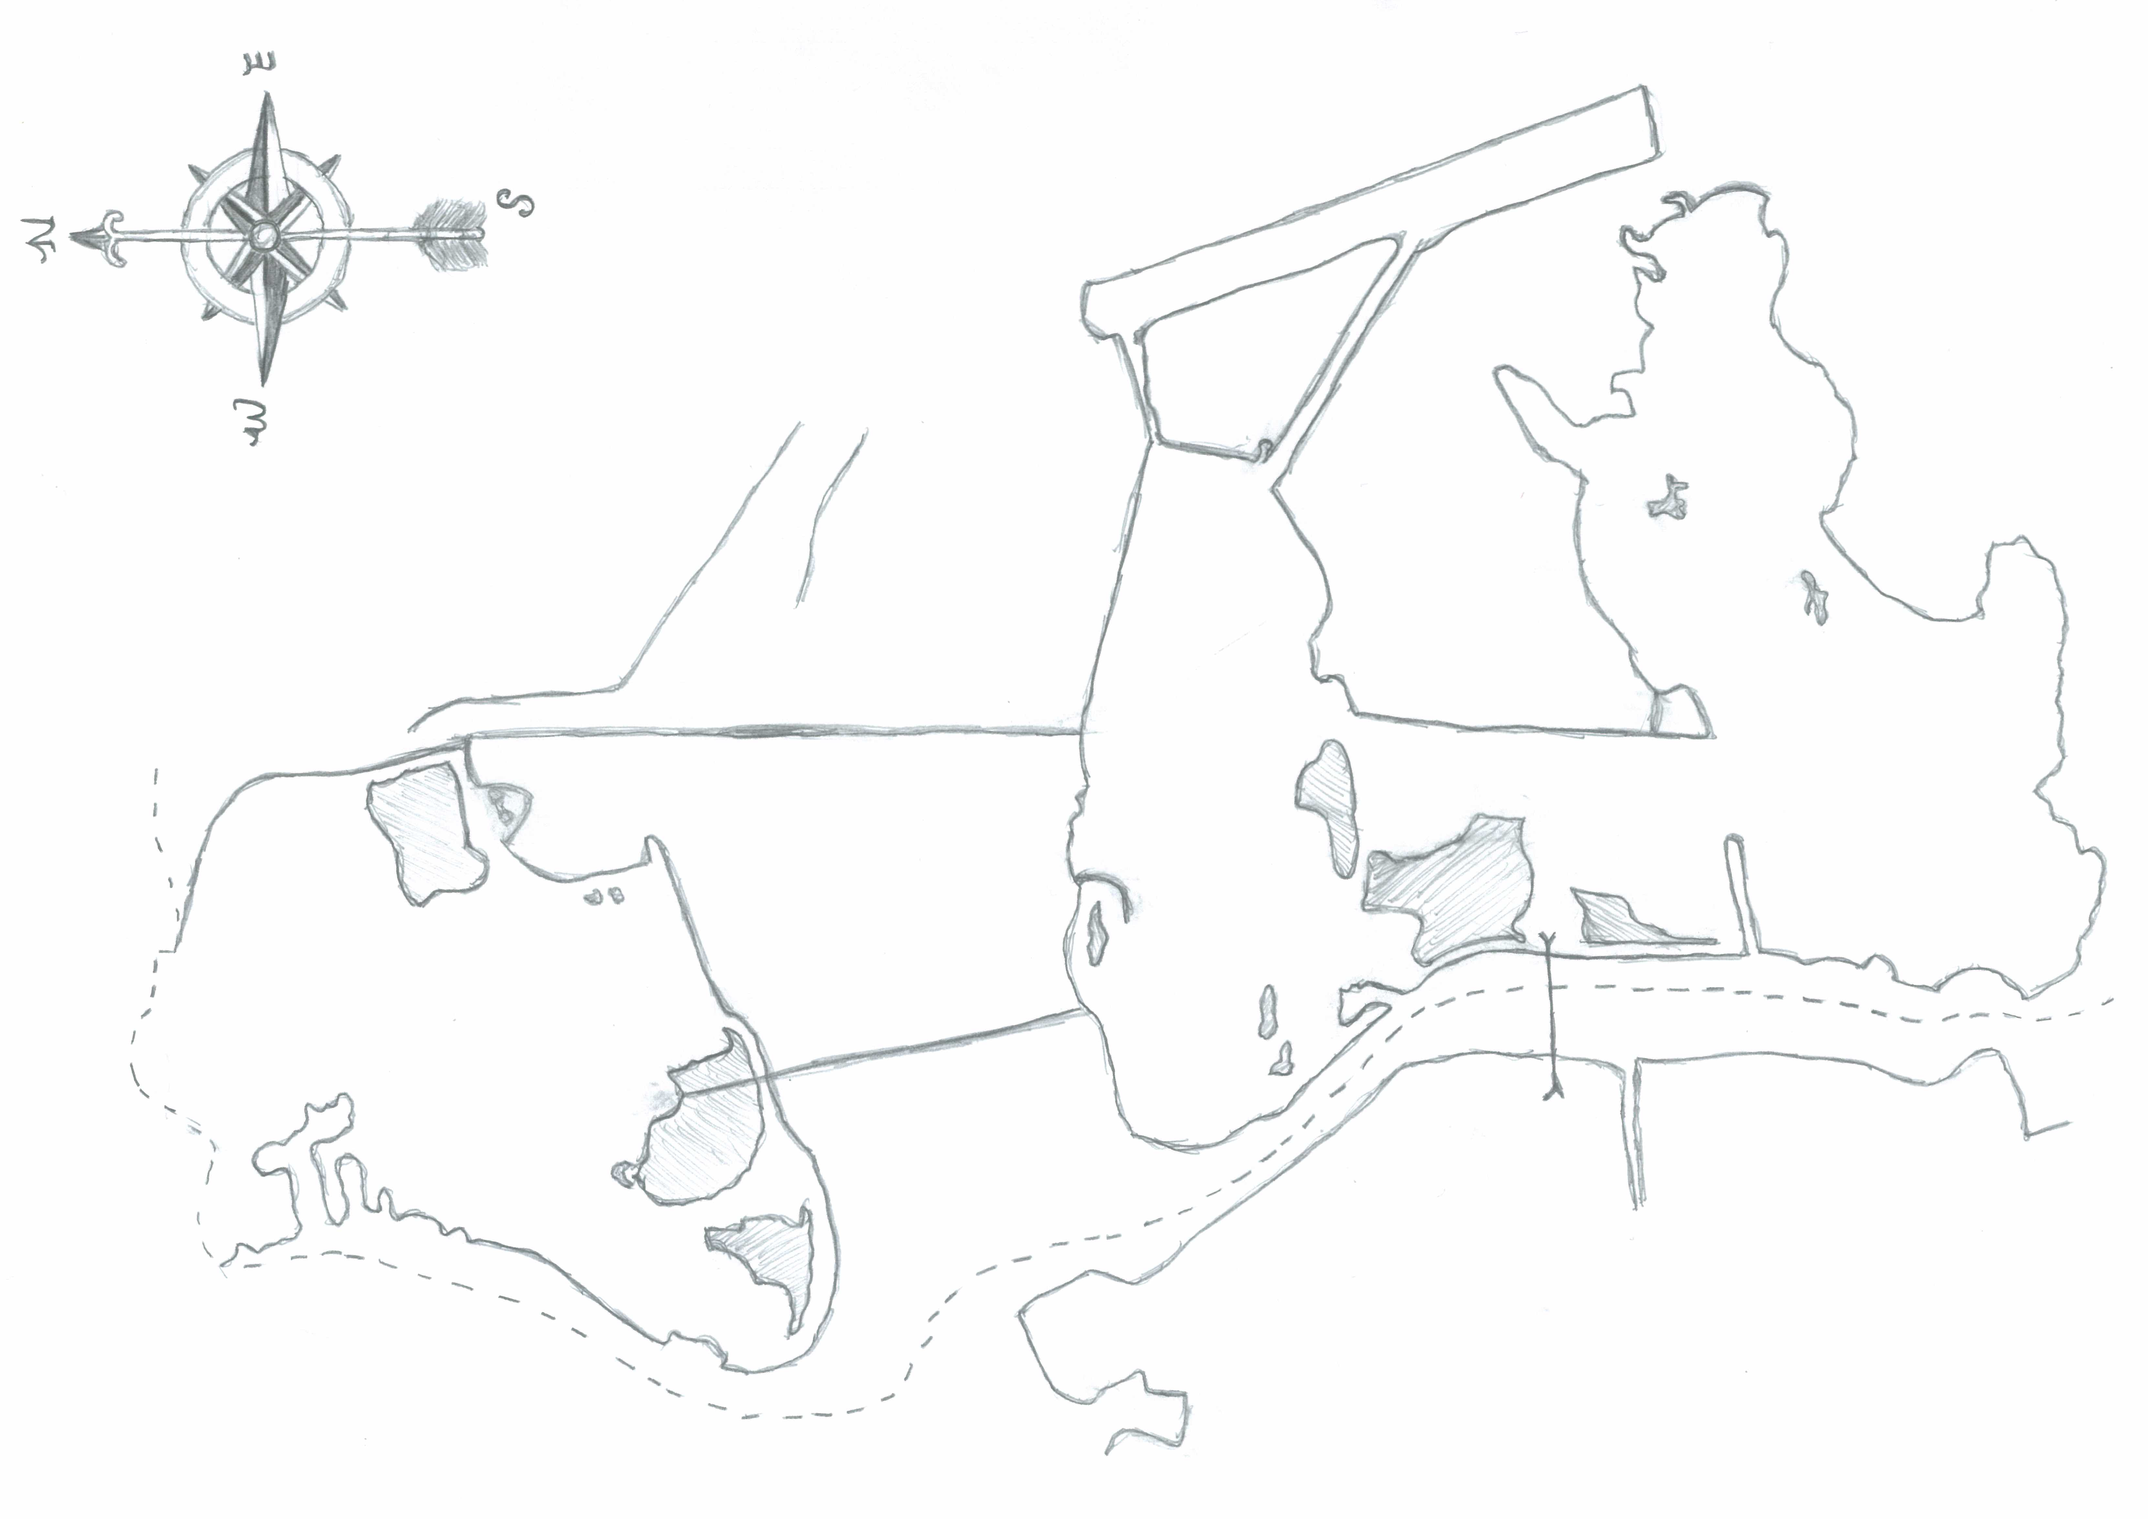
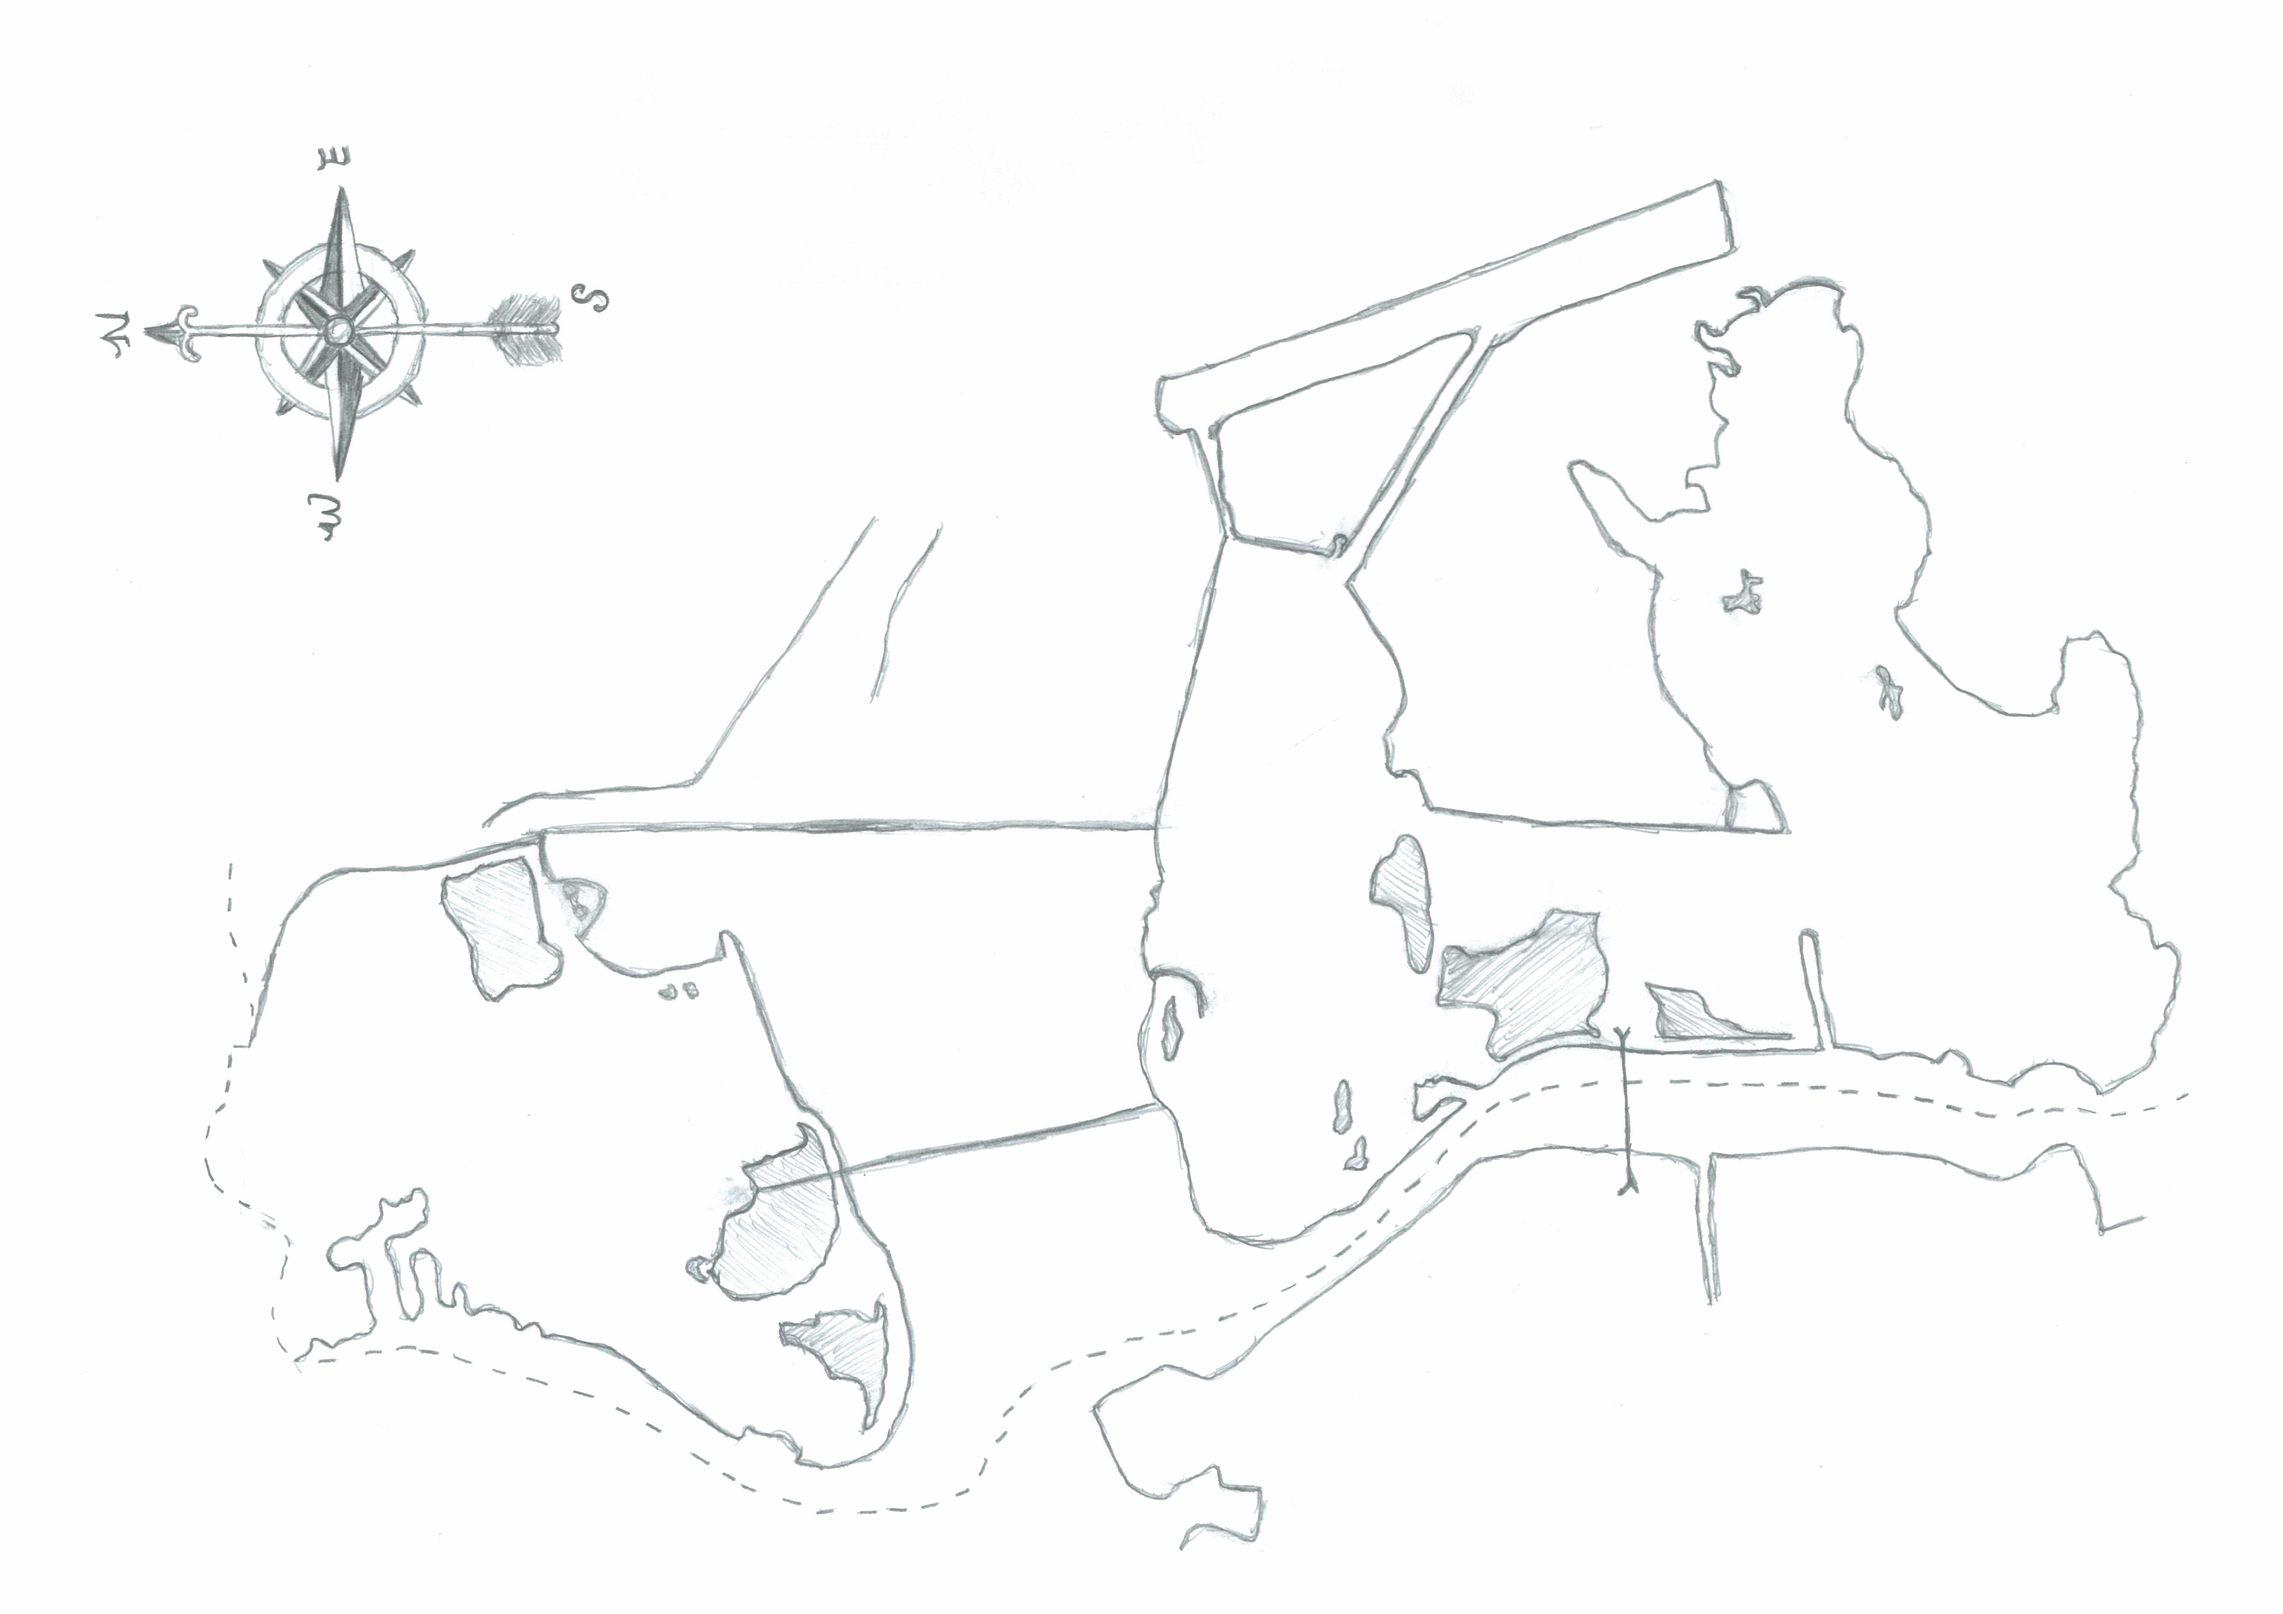
Add the images and add the pin into the map. Also change the background image.

diff --git a/src/components/Map/Map.vue b/src/components/Map/Map.vue
@@ -1,10 +1,41 @@
 <template>
-  <div class="map-container border border-gray-500 relative">
-    <!-- <img
-      class="w-full h-full object-contain object-center"
+  <div class="map-container relative">
+    <img
+      class="w-full h-full object-contain object-center absolute opacity-75"
       src="../../assets/images/base_map_1999.png"
-    />-->
-    <Point class="absolute point-1" placeName="RuinsOfStPauls" :id="0" url="../../assets/images/RuinsOfStPauls.png"/>
+    />
+    <img class="pin absolute h-auto top-0 left-0" src="../../assets/images/pin_r.png" alt srcset />
+    <img class="pin absolute h-auto top-0 right-0" src="../../assets/images/pin_l.png" alt srcset />
+    <Point
+      class="absolute point-1"
+      placeName="RuinsOfStPauls"
+      :id="0"
+      url="../../assets/images/RuinsOfStPauls.png"
+    />
+    <Point
+      class="absolute point-2"
+      placeName="temp01"
+      :id="0"
+      url="../../assets/images/RuinsOfStPauls.png"
+    />
+    <Point
+      class="absolute point-3"
+      placeName="temp02"
+      :id="0"
+      url="../../assets/images/RuinsOfStPauls.png"
+    />
+    <Point
+      class="absolute point-4"
+      placeName="temp03"
+      :id="0"
+      url="../../assets/images/RuinsOfStPauls.png"
+    />
+    <Point
+      class="absolute point-5"
+      placeName="temp04"
+      :id="0"
+      url="../../assets/images/RuinsOfStPauls.png"
+    />
   </div>
 </template>
 
@@ -23,16 +54,36 @@ export default {
 
 <style lang="scss" scoped>
 .map-container {
-  background-image: url("../../assets/images/base_map_1999.png");
-  background-position: center;
-  background-repeat: no-repeat;
-  background-size: contain;
-  width: calc(92vh * 1.41421356);
-  height: calc(92vh);
-}
+  // background-image: url("../../assets/images/base_map_1999.png");
+  // background-position: center;
+  // background-repeat: no-repeat;
+  // background-size: contain;
+  width: calc(95vh * 1.41421356);
+  height: calc(95vh);
 
-.point-1 {
-  top: 65%;
-  left: 17%;
+  .pin {
+    width: 6%;
+  }
+
+  .point-1 {
+    top: 65%;
+    left: 17%;
+  }
+  .point-2 {
+    top: 67%;
+    left: 30%;
+  }
+  .point-3 {
+    top: 50%;
+    left: 60%;
+  }
+  .point-4 {
+    top: 50%;
+    left: 25%;
+  }
+  .point-5 {
+    top: 30%;
+    left: 80%;
+  }
 }
 </style>

diff --git a/src/views/Home.vue b/src/views/Home.vue
@@ -1,7 +1,7 @@
 <template>
   <div class="home w-screen h-screen bg-center flex justify-center relative">
-    <Map class="absolute top-0"/>
-    <input class="absolute bottom-0 p-4" type="range" name="" id="" min="1999" max="2019" value="1999">
+    <Map class="absolute top-0" />
+    <input class="absolute bottom-0 p-4" type="range" name id min="1999" max="2019" value="1999" />
     <div class="language-group absolute top-0 right-0">
       <button class="w-12 h-12 border border-gray-500 m-2 rounded" @click="$i18n.locale = 'cn'">中</button>
       <button class="w-12 h-12 border border-gray-500 m-2 rounded" @click="$i18n.locale = 'en'">EN</button>
@@ -12,7 +12,7 @@
 
 <script>
 // @ is an alias to /src
-import Map from "@/components/Map/Map.vue"
+import Map from "@/components/Map/Map.vue";
 
 export default {
   name: "home",
@@ -25,7 +25,9 @@ export default {
 <style lang="scss" scoped>
 .home {
   // background-image: url("../assets/images/base_map_1999.png");
+  background-image: url("../assets/images/bg01.jpg");
   background-repeat: no-repeat;
   background-size: cover;
+  background-position: center;
 }
 </style>

diff --git a/src/components/Point/Point.vue b/src/components/Point/Point.vue
@@ -1,5 +1,5 @@
 <template>
-  <div class="point-container relative bounce" @click="showInfo">
+  <div class="point-container relative cursor-pointer" @click="showInfo">
     <img
       class="w-hull h-full rounded object-cover object-center"
       :src="imgURL"
@@ -102,5 +102,9 @@ export default {
 .point-container {
   width: 5%;
   height: 5%;
+}
+
+.point-container:hover {
+  @apply bounce;
 }
 </style>
